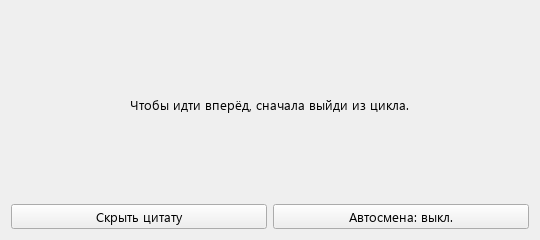
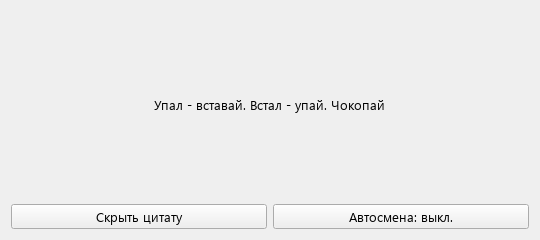
Заменены цитаты на список из девяти фраз и обновлены скриншоты

Changed region(s): [[0.237, 0.4083, 0.7704, 0.4667]]

diff --git a/mainwindow.cpp b/mainwindow.cpp
@@ -7,11 +7,15 @@
 
 MainWindow::MainWindow(QWidget *parent)
     : QWidget(parent)
-    , m_quotes({QStringLiteral("Чтобы идти вперёд, сначала выйди из цикла."),
-                QStringLiteral("Если жизнь подкинула ошибку — прочитай, что написано."),
-                QStringLiteral("Семь раз проверь, один раз закоммить."),
-                QStringLiteral("Кто рано встаёт, тот раньше замечает дедлайн."),
-                QStringLiteral("Главное — не скорость. Главное — не бежать в другую сторону.")})
+    , m_quotes({QStringLiteral("Упал - вставай. Встал - упай. Чокопай"),
+                QStringLiteral("В жизни всегда есть две дороги: одна - первая, а другая - вторая."),
+                QStringLiteral("Запомни: всего одна ошибка – и ты ошибся."),
+                QStringLiteral("Как говорил мой дед: «Я твой дед»."),
+                QStringLiteral("Слово - не воробей. Вообще ничто не воробей, кроме самого воробья."),
+                QStringLiteral("Если тебе где-то не рады в рваных носках, то и в целых туда идти не стоит."),
+                QStringLiteral("Если закрыть глаза, становится темно."),
+                QStringLiteral("Кто рано встаёт - тому весь день спать хочется."),
+                QStringLiteral("Ради денег люди готовы пойти на всё, даже на работу.")})
 {
     setWindowTitle(QStringLiteral("Библиотека цитат Джейсона Стейтема"));
     resize(540, 240);

diff --git a/README.md b/README.md
@@ -1,6 +1,6 @@
 # Библиотека цитат Джейсона Стейтема
 
-Сквозной проект по дисциплине «Основы кроссплатформенного программирования»: одно окно с пятью шуточными цитатами в стиле интернет-мемов и двумя кнопками.
+Сквозной проект по дисциплине «Основы кроссплатформенного программирования»: одно окно с девятью шуточными цитатами в стиле интернет-мемов и двумя кнопками.
 
 Для запуска откройте `JasonStathamQuotes.pro` в Qt Creator, выберите комплект Qt Widgets с поддержкой C++17, соберите и запустите проект.
 
@@ -20,7 +20,7 @@
 
 ## Из лабораторной № 3 — «QTimer, лямбда-слоты и динамические соединения»
 
-Добавлена кнопка «Автосмена», которая запускает и останавливает `QTimer`. Каждые пять секунд он показывает следующую цитату; после пятой снова появляется первая.
+Добавлена кнопка «Автосмена», которая запускает и останавливает `QTimer`. Каждые пять секунд он показывает следующую цитату; после девятой снова появляется первая.
 
 Кнопки и сигнал `timeout()` подключены к лямбда-слотам с контекстом главного окна. При скрытии цитаты автосмена останавливается; включение автосмены при скрытой цитате снова показывает её.
 
